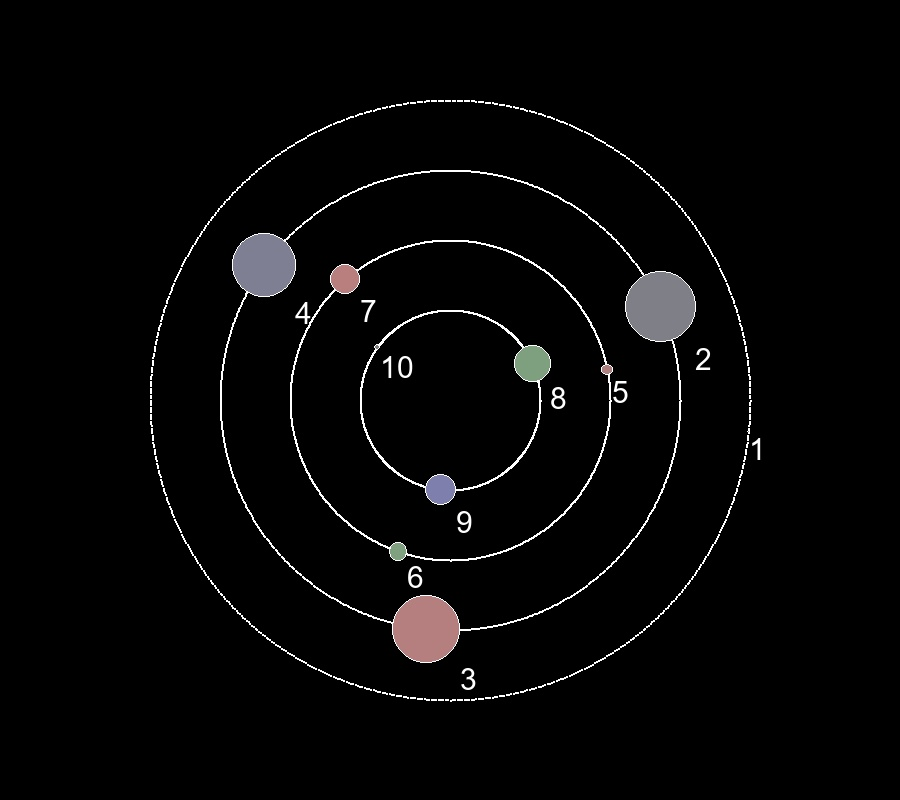
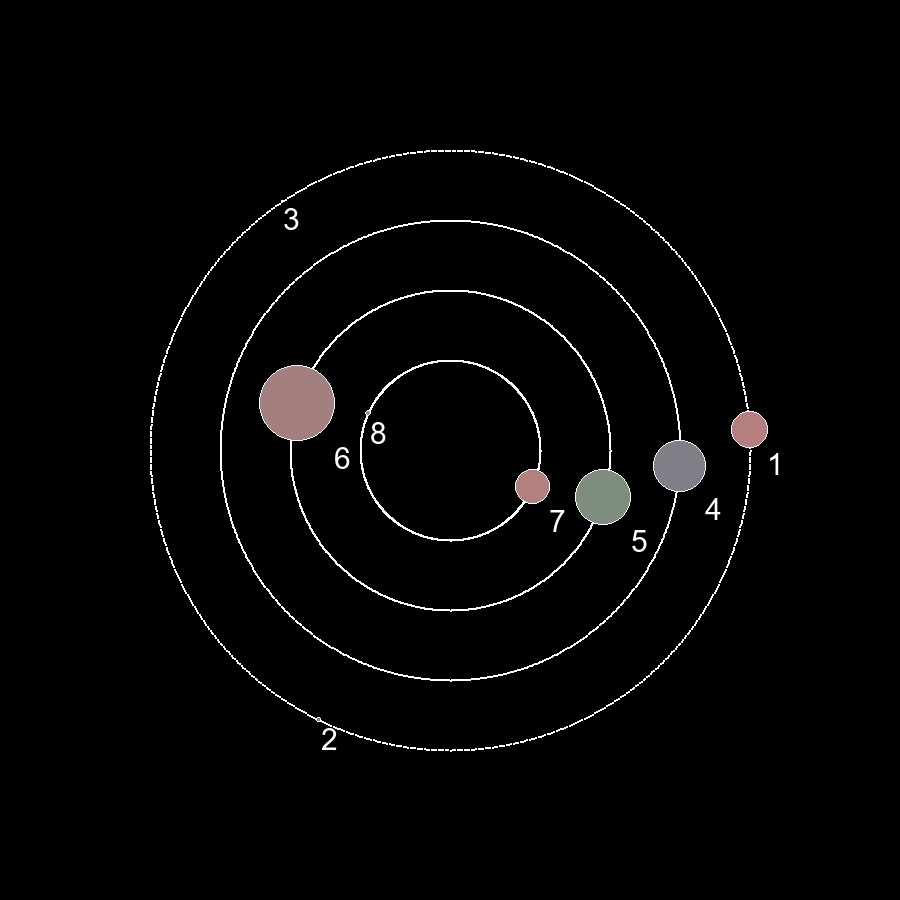
New_Update
New update in the project!

diff --git a/Planet_sys.py b/Planet_sys.py
@@ -1,36 +1,9 @@
 from functions import *
-import os
 from random import randint, choice
 from datetime import datetime
 from render import *
+from Classes import *
 
-class Planet:
-    def __init__(self, name, size, gravitation, temperature):
-        self.name = name
-        self.size = size
-        self.color_pl = (0, 0, 0)
-        self.temperature = temperature
-        self.pl_type = get_type(temperature)
-        self.terr_type = choice(terrain_types)
-        self.grav = gravitation
-        self.size_type = get_size_type(size)
-        self.is_colony = is_colony(temperature)
-        self.birth = datetime.now()
-        self.number = 0
-
-    def __str__(self):
-        return f"   Информация о планете {self.name} №{self.number}: \n       Тип планеты: {self.pl_type}\n       Тип местности планеты: {self.terr_type}\n       Размер планеты: {self.size}км \n       Гравитация планеты: {self.grav}H\n       Температура планеты: {self.temperature}°С\n       Колонизирована ли планета: {self.is_colony}\n       Время рождения планеты: {self.birth}\n    {self.size_type}"
-
-
-class Planet_sys:
-    def __init__(self, name):
-        self.name = name
-        # self.planets = [Planet(generate_alphanum_random_string(randint(4, 10)), randint(2000, 150000), randint(1, 100), randint(-120, 120)) for i in range(randint(3, 8))]
-        self.planets = []
-
-
-    def __str__(self):
-        return f"Список планет в планетарной системе {self.name}: \n\n"+"".join([str(i)+"\n\n" for i in self.planets])
 
 def Planet_sys_Generator(name):
     """Генерация планетарной системы с изображением."""
@@ -40,8 +13,8 @@ def Planet_sys_Generator(name):
     text_pos = [40, 20]
     for belt in range(randint(2, 4)):# Отрисовка поясов, и размещение планет по ним.
         planets_count = 0
-        belt = circle_pos(450, 400, 800, 0, r)
-        planets_belt = circle_pos(450, 400, randint(1, 3), randint(-30, 30), r)
+        belt = circle_pos(450, 450, 800, 0, r)
+        planets_belt = circle_pos(450, 450, randint(1, 3), randint(-30, 30), r)
         for pos in belt:
             ellipse(draw, pos[0], pos[1], 1, 1, "white")
         for pos in planets_belt:
@@ -53,6 +26,7 @@ def Planet_sys_Generator(name):
             ellipse(draw, pos[0]-pl_render_diam/2, pos[1]-pl_render_diam/2, pl_render_diam, pl_render_diam, planet.color_pl)
             Pl_sys.planets.append(planet)
             draw.text((pos[0]+pl_render_diam/2, pos[1]+pl_render_diam/2), str(len(Pl_sys.planets)), font=headline)
+            print(planet)
         r = r-r_minus
 
     im.save('draw-ellipse-rectangle-line.jpg', quality=95)

diff --git a/Classes.py b/Classes.py
@@ -1,0 +1,49 @@
+from functions import *
+from random import randint, choice, uniform
+from datetime import datetime
+
+class Planet:
+    def __init__(self, name, size, gravitation, temperature):
+        self.name = name
+        self.size = size
+        self.color_pl = (0, 0, 0)
+        self.temperature = temperature
+        self.pl_type = get_type(temperature)
+        self.terr_type = choice(terrain_types)
+        self.grav = gravitation
+        self.size_type = get_size_type(size)
+        self.is_colony = is_colony(temperature)
+        self.birth = datetime.now()
+        self.number = 0
+
+    def __str__(self):
+        return f"   Информация о планете {self.name} №{self.number}: \n       Тип планеты: {self.pl_type}\n       Тип местности планеты: {self.terr_type}\n       Размер планеты: {self.size}км \n       Гравитация планеты: {self.grav}H\n       Температура планеты: {self.temperature}°С\n       Колонизирована ли планета: {self.is_colony}\n       Время рождения планеты: {self.birth}\n    {self.size_type}"
+
+
+class Planet_sys:
+    def __init__(self, name):
+        self.name = name
+        # self.planets = [Planet(generate_alphanum_random_string(randint(4, 10)), randint(2000, 150000), randint(1, 100), randint(-120, 120)) for i in range(randint(3, 8))]
+        self.planets = []
+
+
+    def __str__(self):
+        return f"Список планет в планетной системе {self.name}: \n\n"+"".join([str(i)+"\n\n" for i in self.planets])
+
+class Galaxy_sys:
+    def __init__(self, name):
+        self.name = name
+        self.diameter = 0
+
+        #render_settings
+        self.center_x = 450; self.center_y = 450
+        self.radius = 10; self.radius_plus = uniform(1, 3)
+        self.points = 2
+        self.angle = 0; self.angle_plus = randint(1, 4)
+        self.size = 20; self.size_minus = self.size / 100 * 0.3
+        self.type_ = get_galaxy_type(self.points, self.angle_plus)
+
+    def __str__(self):
+        return f"   Информация о галактике {self.name}\n       Тип галактики: {self.type_}\n       Диаметр галактики: {self.diameter}"
+
+

diff --git a/Galaxy_generator_and_render.py b/Galaxy_generator_and_render.py
@@ -1,0 +1,29 @@
+from functions import *
+from random import randint, choice
+from datetime import datetime
+from render import *
+from Classes import *
+
+
+
+def galaxy_sys_generator(is_render=True):
+    galaxy = Galaxy_sys(generate_alphanum_random_string(randint(4, 10)))
+    if is_render:
+        for i in range(100):
+            # Вызываем функцию circle_pos для каждого круга спирали
+            positions = circle_pos(galaxy.center_x, galaxy.center_y, galaxy.points, galaxy.angle, galaxy.radius)
+            # Рисуем точки на изображении
+            for pos in positions:
+                color = (255, 255, 255)
+                ellipse(draw, pos[0]+randint(-abs(i-100)//10, abs(i-100)//10), pos[1]+randint(-abs(i-100)//10, abs(i-100)//10), galaxy.size, galaxy.size, color, outline=None)
+                galaxy.size -= galaxy.size_minus
+                print(galaxy.size)
+            galaxy.radius += galaxy.radius_plus  # Увеличиваем радиус для создания спирали
+            galaxy.angle += galaxy.angle_plus # Увеличиваем угол для вращения спирали
+        print(galaxy.radius)
+        print(galaxy); print(galaxy.angle)
+        im.save('draw-ellipse-rectangle-line.jpg', quality=95)
+        im.show()
+    else:
+        print(galaxy)
+a = galaxy_sys_generator()

diff --git a/render.py b/render.py
@@ -1,13 +1,13 @@
 from PIL import Image, ImageDraw, ImageFont
+from functions import *
+from random import randint
 
 color = (0, 0, 0)
 
 # Пустой фон.
-im = Image.new('RGB', (900, 800), "black")
+im = Image.new('RGB', (900, 900), "black")
 draw = ImageDraw.Draw(im)
-
 
 headline = ImageFont.truetype("arial.ttf", size=30)
 planet_info = ImageFont.truetype("arial.ttf", size=25)
 # draw.text((40, 20), "Pon", font=headline) Example
-

diff --git a/README.md b/README.md
@@ -6,7 +6,7 @@
 Данный проект предназначен для генерации планет/планетарных систем 
 или целых галактик.
 ```
-## Документация:
+## Планеты:
 Каждая планета имеет:
 - Температуру (Измеряется в Цельсиях)
 - Имя (Генерируется рандомно)
@@ -37,3 +37,15 @@
 - Гравитация планеты (Измеряется в Ньютонах)
 - Вероятность зарождения живых аргонизмов на планете. (На данный момент только True/False)
 - Время зарождения планеты.
+
+## Планетные системы:
+Каждая планетныя система имеет:
+- Имя (Генерируется рандомно)
+- Список всех планет (Обьектов этих планет)
+
+## Галактики:
+Каждая галактика имеет:
+- Имя (Генерируется рандомно)
+- Диаметр галактики (В св. годах)
+
+А также есть настройки рендера галактики.
